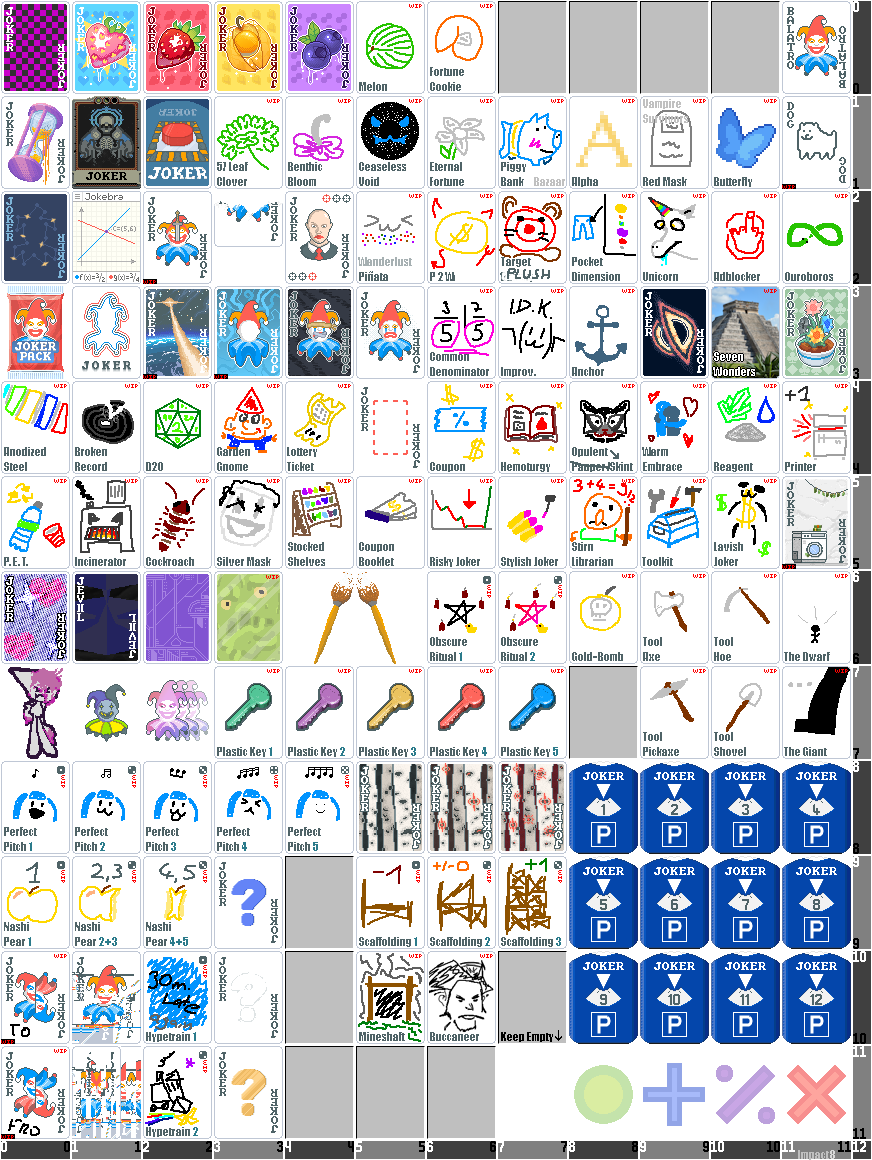
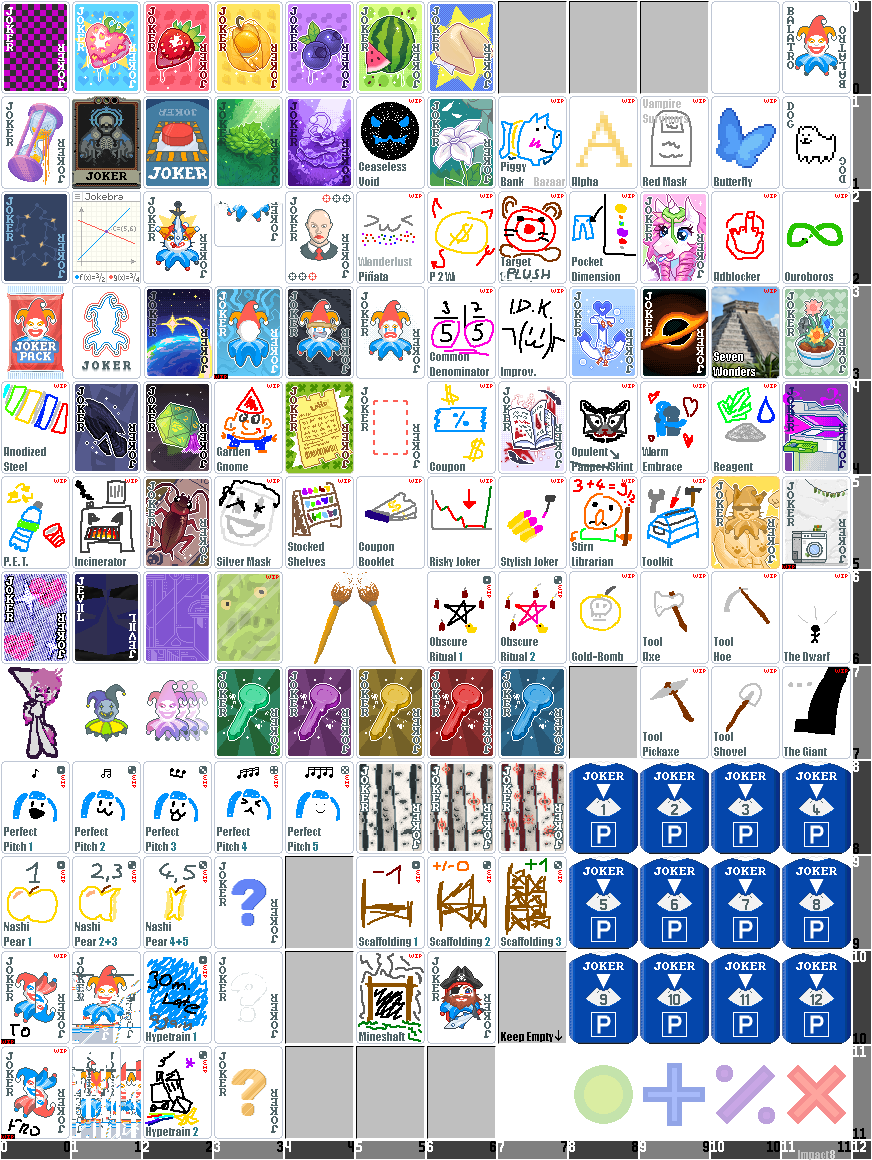
20 New Textures

diff --git a/README.md b/README.md
@@ -118,7 +118,7 @@ Details about added content will soon be avaliable on the [Modded Balatro Wiki](
 | Red Mask | This Joker gains +8 Chips<br>when adding or removing<br>a playing card<br>(Currently +0 Chips) | $6 | Uncommon | - |
 | Scaffolding | +/-0 Hand size<br>When Blind is selected<br>gain 1 Hand size for<br>every other Joker<br>Lose 3 Hand size<br>each Hand played | $5 | Uncommon | - |
 | 7 Wonders | When Blind is selected<br>reduce the Blind Size<br>by 2% for each 7 in<br>your full deck<br>(Currently 0%/50%) | $7 | Uncommon | - |
-| Shooting Star | When Boss Blind is<br>defeated, upgrade<br>every Poker Hand<br>by 1 level(s) | $7 | Uncommon | Luck Based |
+| Shooting Star | When Boss Blind is<br>defeated, upgrade<br>every Poker Hand<br>by 1 level(s) | $7 | Uncommon | Luck affected |
 | Stirn Librarian | When Blind is selected,<br>Debuff adjacent Jokers<br>+25 Mult for each<br>Debuffed Joker<br>(Currently +0 Mult) | $5 | Uncommon | - |
 | Stylish Joker | -1 hand size<br>+2 consumable slots<br>Earn $1 for every<br>Consumable you keep<br>at the end of round | $5 | Uncommon | - |
 | PUSH UR T3MPRR | BLIND SELECTED,<br>CLOCK IT UP 200%<br>CARD PLAYED,<br>PUSH IT DOWN 6% | $5 | Uncommon | - |
@@ -130,7 +130,7 @@ Details about added content will soon be avaliable on the [Modded Balatro Wiki](
 | Ceaseless Void | This Joker gains a random<br>upgrade for each Joker sold<br>When Blind is selected<br>increase Blind Size by 0%<br>+20 Chips, X1 Chips<br>+0 Mult, X1 Mult<br>Earn $0 at end of round | $9 | Rare | - |
 | Common Denominator | Copies abilities of<br>all Common Jokers | $10 | Rare | - |
 | Copy Printer | At the end of the Shop<br>convert the Joker to the left<br>into the Joker to the right<br>(Destroyed after use) | $12 | Rare | - |
-| Echoing Joker | Create 2 Negative<br>copies of the next<br>used Consumable | $12 | Rare | Luck Based |
+| Echoing Joker | Create 2 Negative<br>copies of the next<br>used Consumable | $12 | Rare | Luck affected |
 | Hemoturgy | Discarded cards gain<br>a random Edition,<br>Enhancement or Seal<br>-1 Discard each round<br>Decreases amount of<br>Discardable Cards by 2 | $7 | Rare | - |
 | Improv Show | Spend 1 Discard<br>each hand played<br>to regain 1 Hand<br>Earn $1 less per<br>remaining Hand | $8 | Rare | - |
 | Lavish Joker | Regain lost Money<br>Each $1 regained<br>increases the next<br>Blind Size by 5%<br>(Next Blind: +0%)<br>Turns Possessive<br>after $20 regained | $1 | Rare | - |
@@ -146,6 +146,7 @@ Details about added content will soon be avaliable on the [Modded Balatro Wiki](
 
 ### Parking Disc States
 | State | Effect | Note |
+| ---- | ---- | ---- |
 | X | Initial State | Excluded from<br>State 12 |
 | 1 | +1 Handsize | - |
 | 2 | X2 Mult | - |
